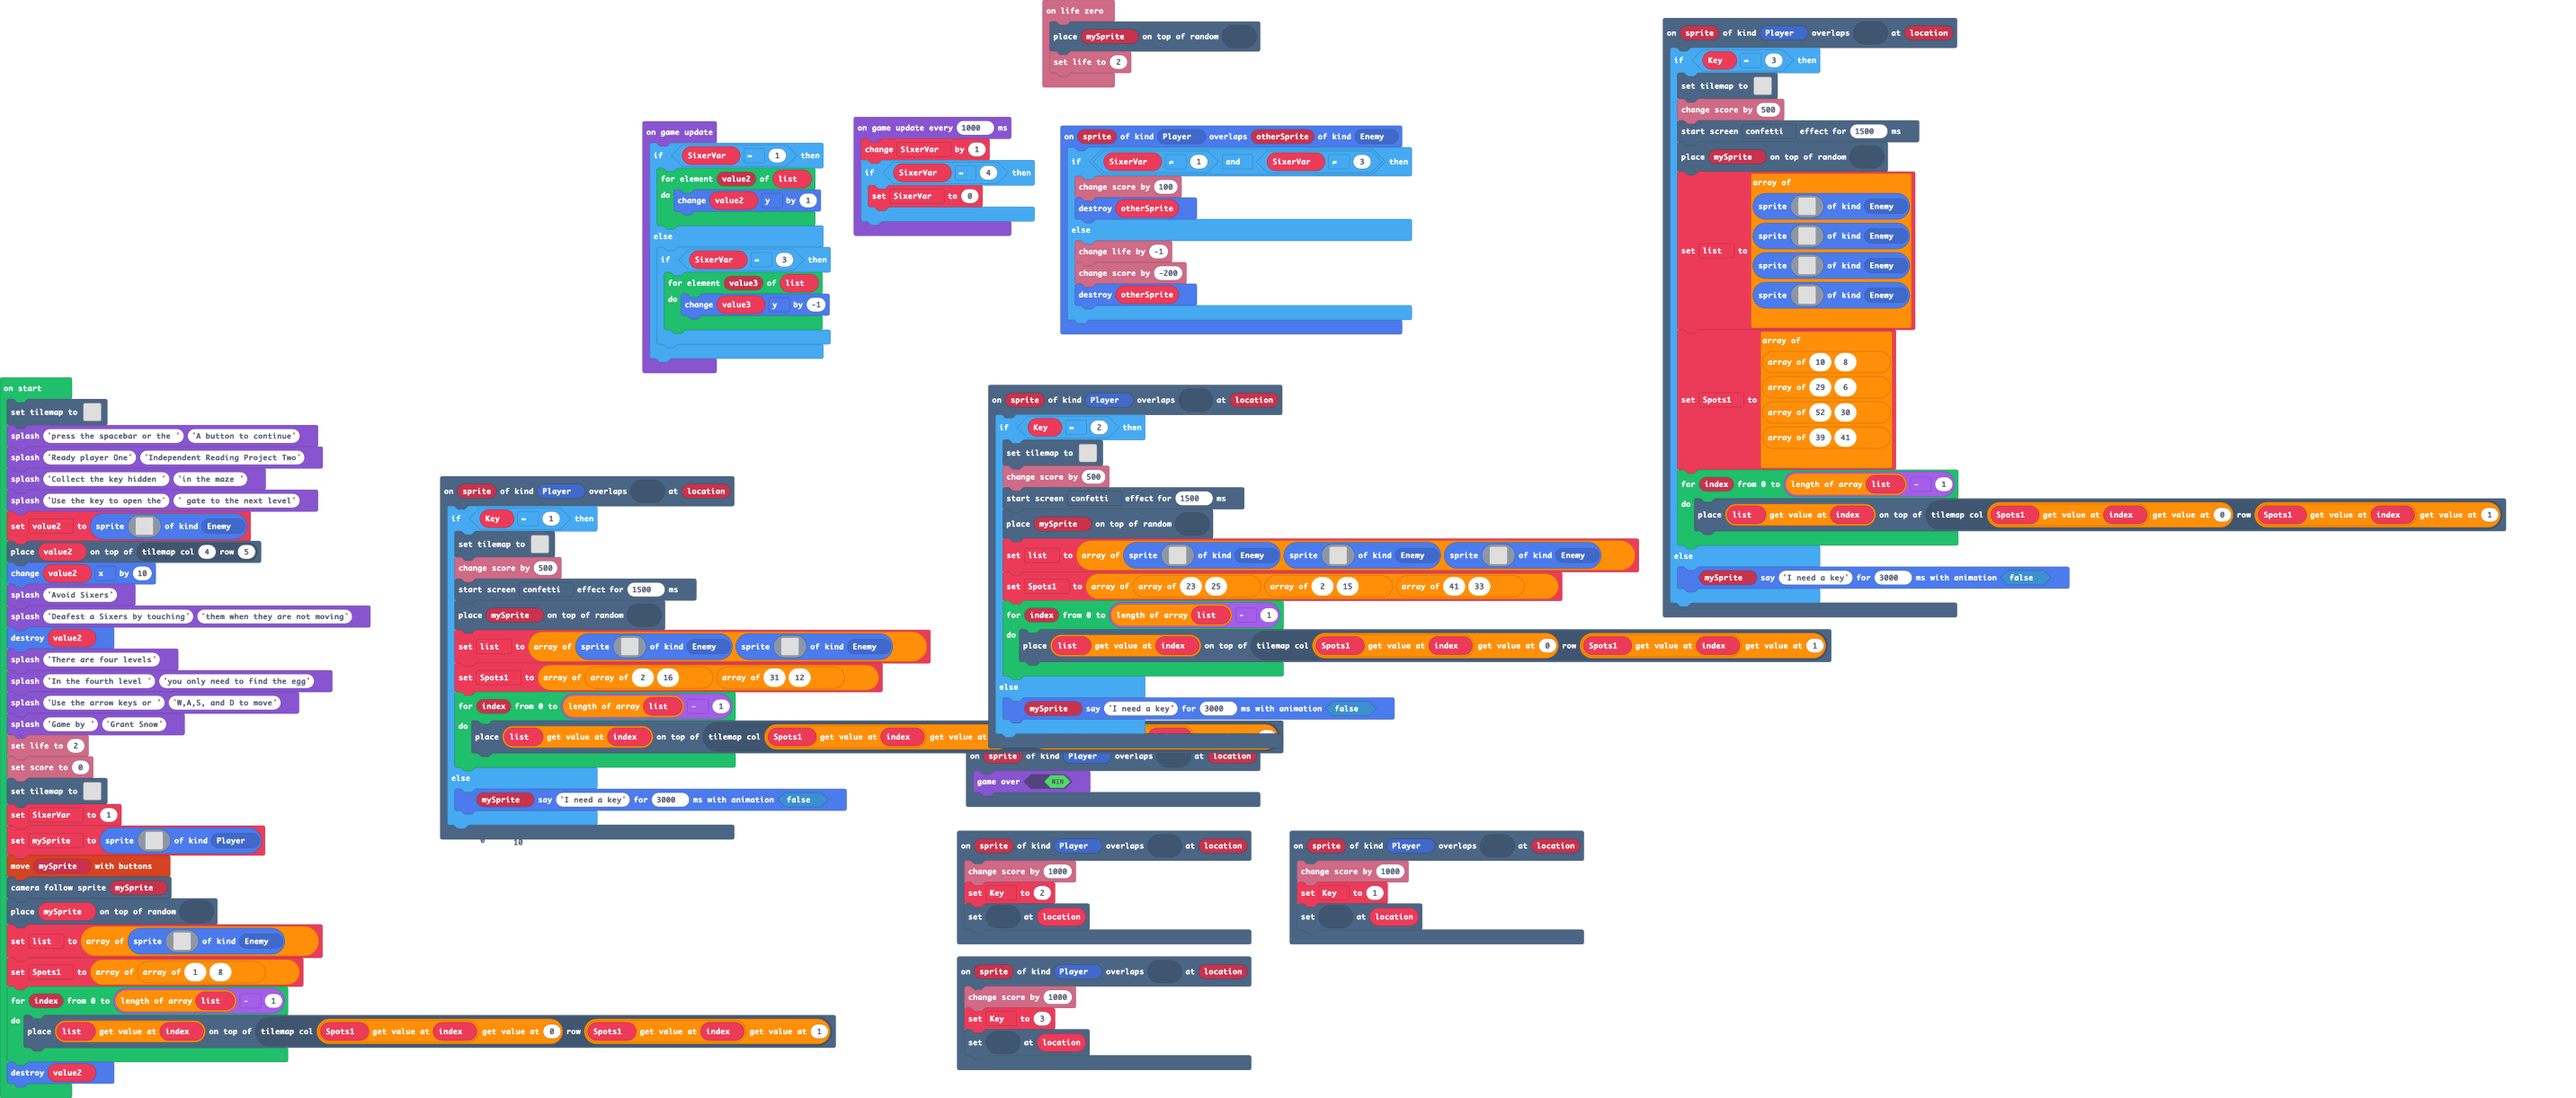
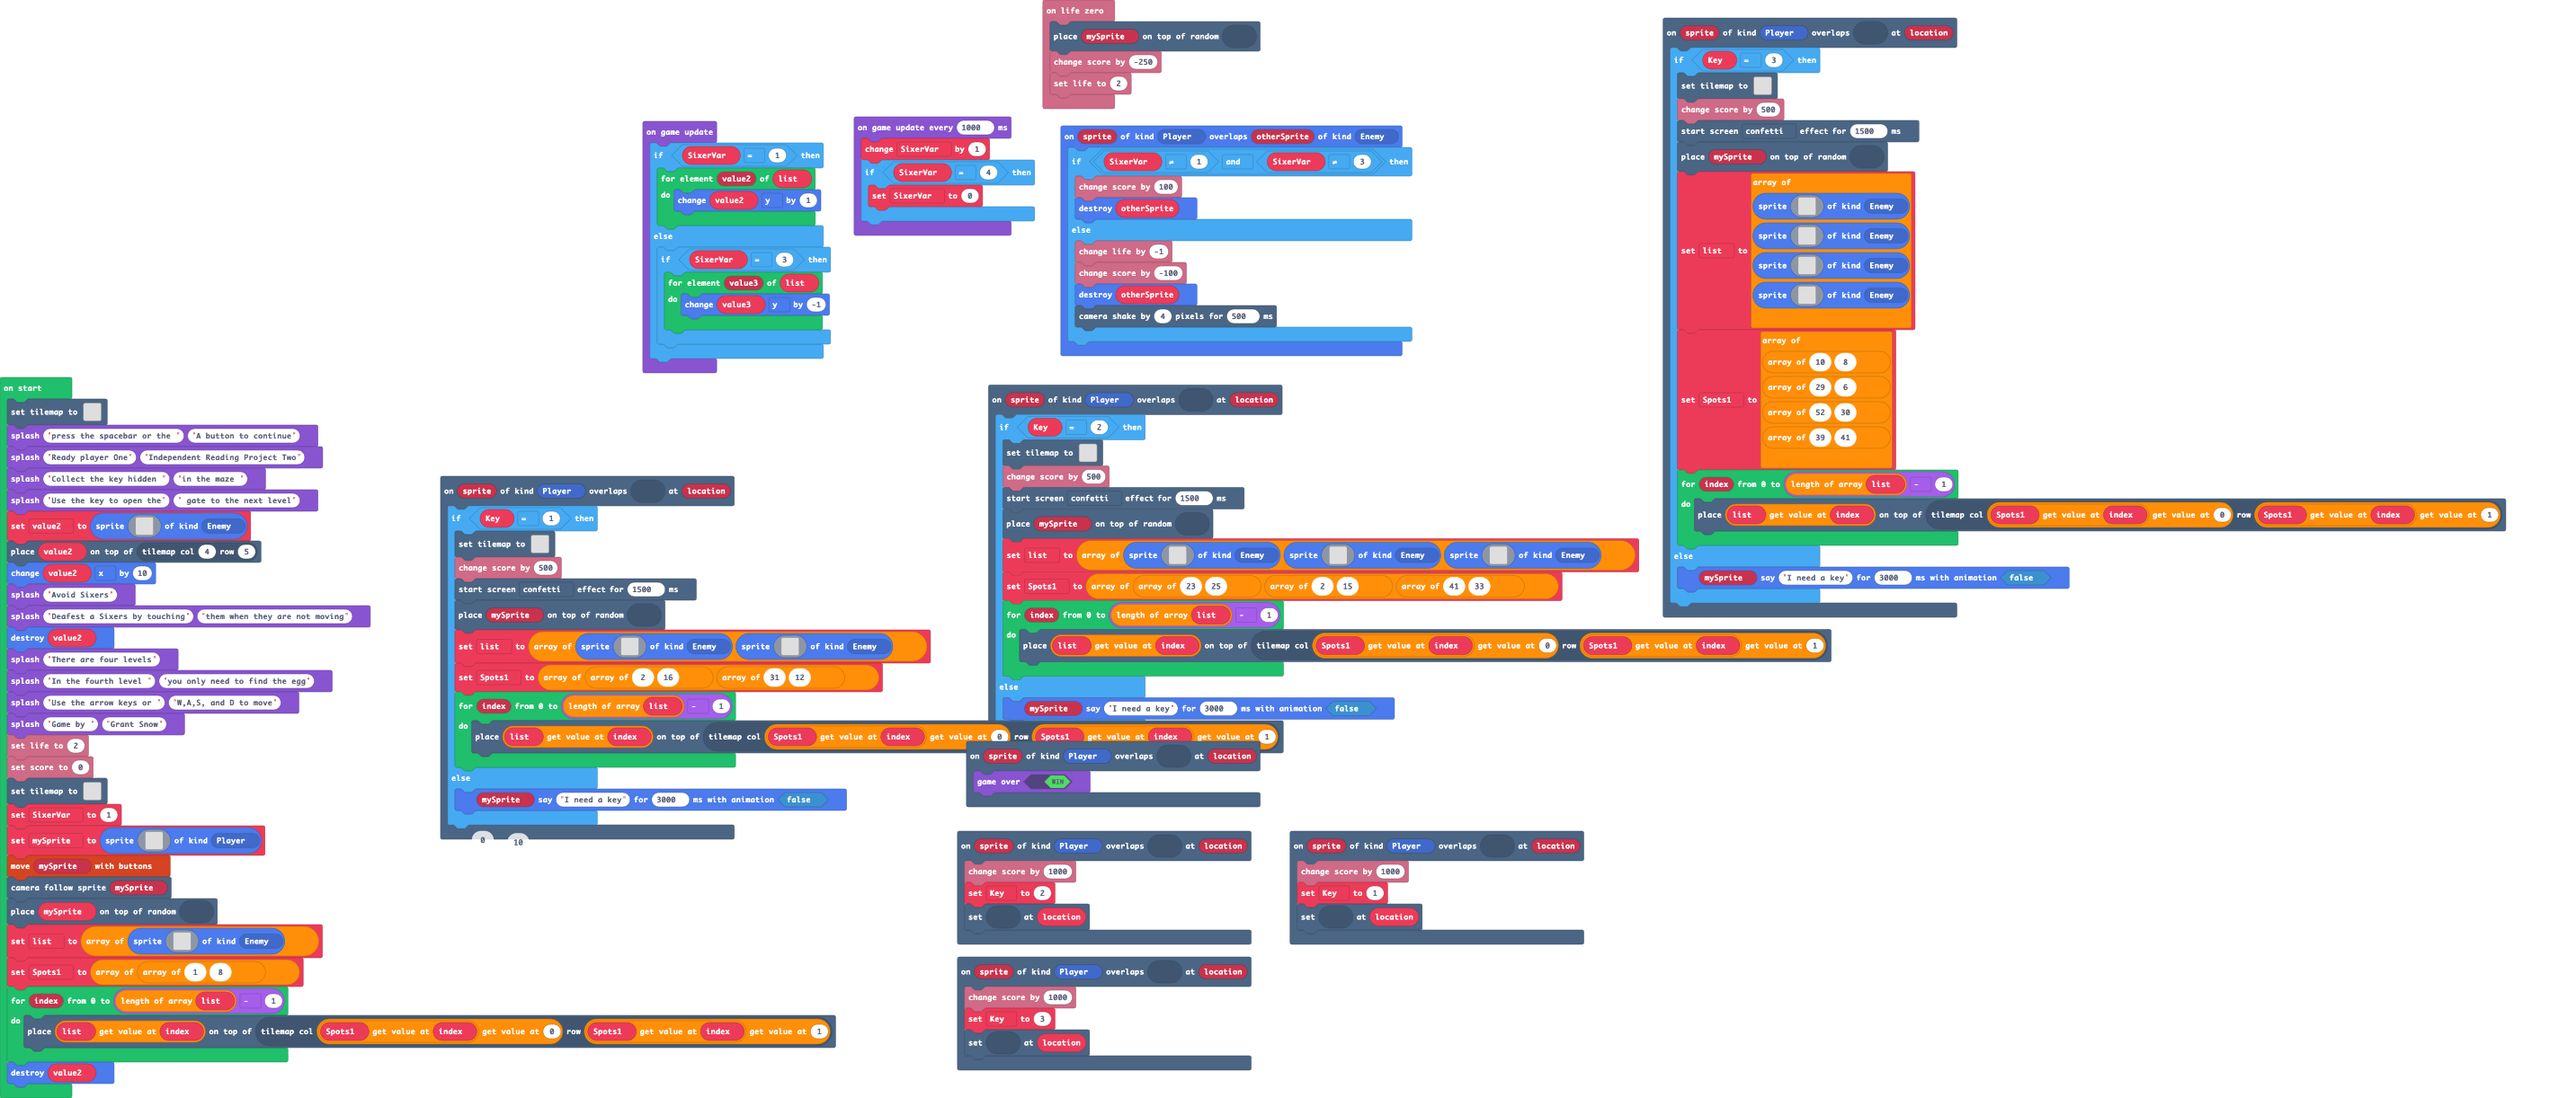
Update main.blocks, main.ts

diff --git a/main.ts b/main.ts
@@ -130,6 +130,7 @@ scene.onOverlapTile(SpriteKind.Player, assets.tile`myTile5`, function (sprite, l
 })
 info.onLifeZero(function () {
     tiles.placeOnRandomTile(mySprite, assets.tile`myTile2`)
+    info.changeScoreBy(-250)
     info.setLife(2)
 })
 scene.onOverlapTile(SpriteKind.Player, assets.tile`myTile10`, function (sprite, location) {
@@ -234,8 +235,9 @@ sprites.onOverlap(SpriteKind.Player, SpriteKind.Enemy, function (sprite, otherSp
         otherSprite.destroy()
     } else {
         info.changeLifeBy(-1)
-        info.changeScoreBy(-200)
+        info.changeScoreBy(-100)
         otherSprite.destroy()
+        scene.cameraShake(4, 500)
     }
 })
 let Key = 0
